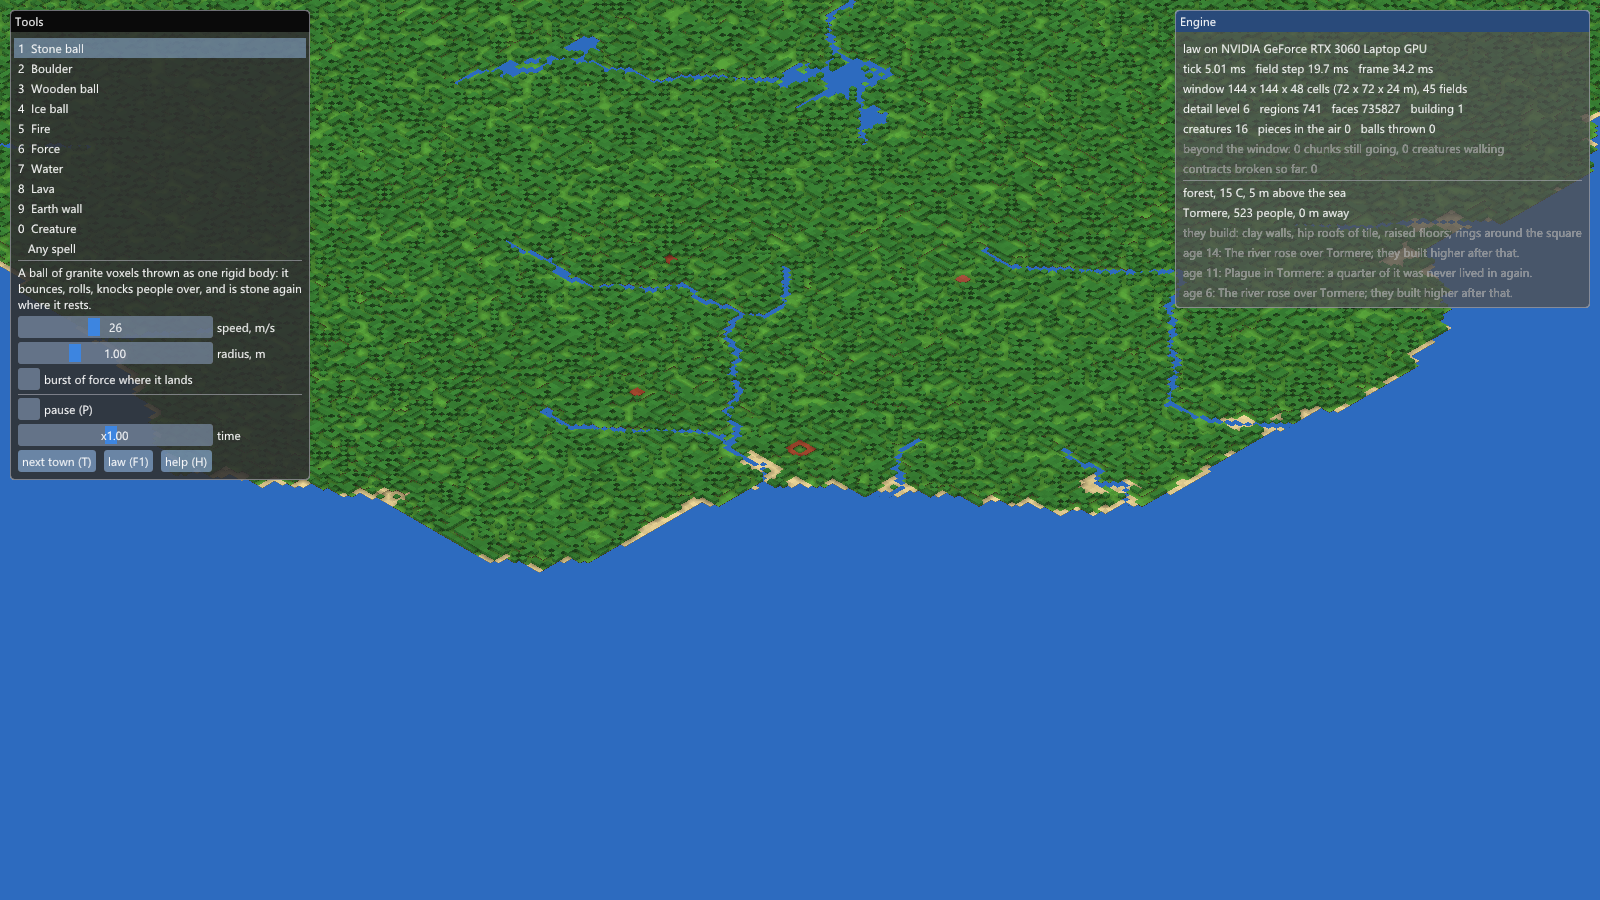
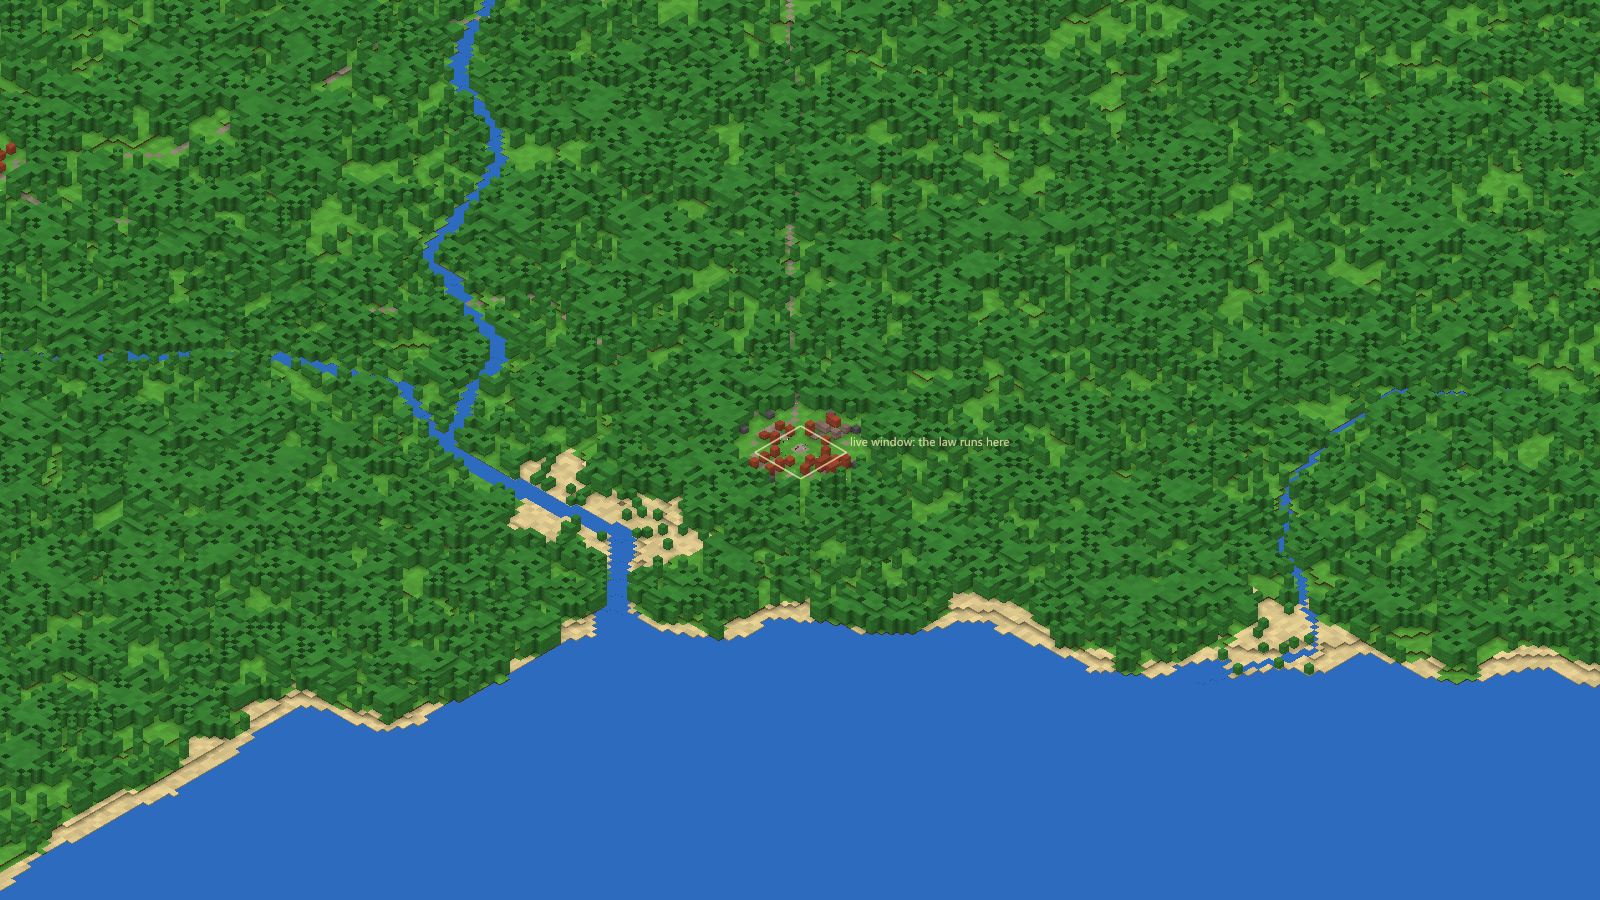
README: new screenshots (town with effects, close-up, continent), short summary of stack and results, no line counts; SANDBOX_CLEAN=1 captures without panels

diff --git a/src/sandbox/Sandbox.cpp b/src/sandbox/Sandbox.cpp
@@ -319,6 +319,7 @@ bool Sandbox::finish_world()
     focus_set_ = true;
     make_tools();
     show_profiler_ = env_is("SANDBOX_PROFILER", "1");
+    show_ui_ = !env_is("SANDBOX_CLEAN", "1"); // captures without panels, as Tab does
     if (env_is("SANDBOX_LEARNED", "1")) {
         world_->set_learned(true);
     }

diff --git a/README.md b/README.md
@@ -4,12 +4,23 @@
 language, structure-preserving and run under runtime contracts. Every learned model is evaluated against classical
 baselines on data it was not trained on.**
 
-C++20, ~42k lines (engine 27k, of which the language, reference solver, IR, CUDA backend, nets and world model 9k;
-benchmarks and tools 2.7k), no CUDA SDK needed to build (the
-driver API and NVRTC are loaded at run time), a differentiable JAX twin of every IR instruction, a reproducible
-benchmark suite (`bench/`).
+![A town under the law: a flood, balls of stone, wood and ice in flight, fire mana, townspeople gossiping](docs/sandbox_town.png)
 
-![A town in the sandbox: people about their work, balls of stone, wood and ice, a flood of water](docs/sandbox_town.png)
+## At a glance
+
+- **Stack:** C++20, CUDA through the driver API + NVRTC loaded at run time (no CUDA SDK to build), inline PTX tensor
+  cores (`mma.m16n8k16`), OpenMP CPU reference, JAX twin (`jax.grad` through the solver), bgfx/SDL3 sandbox.
+- **Compiler:** law text → SSA IR (CSE, folding, stencil radii, cost-model staging, in-place fusion) → one CUDA unit.
+  Bit-identical to a handwritten kernel, 1e-7 against the CPU and JAX references, second-order where the scheme is.
+- **Determinism:** no float atomics, fixed-order compensated reductions; two runs on one card agree to the bit.
+- **Learned operators:** conservative, mirror-equivariant, range-limited by construction (ablated: each piece gives
+  exactly one guarantee); learned schemes run under contracts checked on the card and are undone on a breach.
+- **Results, out of sample against classical baselines:** a coarse-lattice correction cuts error 4x (28 K vs 104 K
+  plain, 107 K fitted), a learned discretization is stable at 2x the step but loses to substeps, an online world
+  model + MPPI plans as well as a hand-written rule without being told the gradient. Negative results are reported.
+- **Speed:** a 43-term, 39-field law on 1 M cells: 11.8 ms a step on an RTX 3060 Laptop, 26x the 8-thread CPU.
+
+![Close up: water mana condensing into a pool, balls of ice, wood and stone, a fire mana burst](docs/sandbox_effects.png)
 
 ## Report
 
